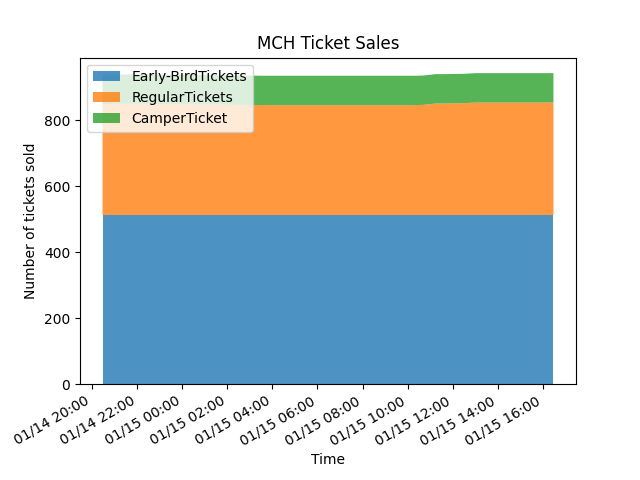
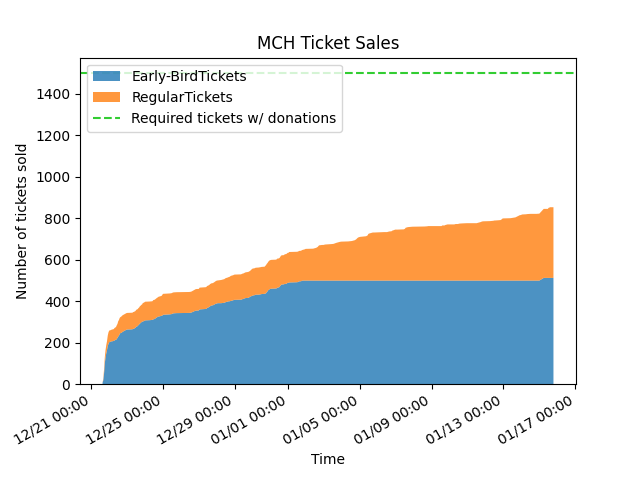
Added historic data, added 1500 ticket target

diff --git a/main.py b/main.py
@@ -30,16 +30,17 @@ def get_updated_counters(tickets):
 
 def plot_counters(data):
     timestamps = [datetime.fromtimestamp(stamp) for stamp in data["utc_epoch_time"].to_list()]
-    list_data = {key: data[key].to_list() for key in data.keys() if key != "utc_epoch_time"}
+    list_data = {key: data[key].to_list() for key in data.keys() if key not in ["utc_epoch_time", "CamperTicket"]}
 
     fig, ax = plt.subplots()
     ax.stackplot(timestamps, list_data.values(),
                  labels=list_data.keys(), alpha=0.8)
-    ax.legend(loc='upper left')
-    ax.set_title('MCH Ticket Sales')
-    ax.set_xlabel('Time')
-    ax.set_ylabel('Number of tickets sold')
-    ax.xaxis.set_major_formatter(mdates.DateFormatter('%m/%d %H:%M'))
+    ax.axhline(y=1500, color="limegreen", linestyle="--", label="Required tickets w/ donations")
+    ax.legend(loc="upper left")
+    ax.set_title("MCH Ticket Sales")
+    ax.set_xlabel("Time")
+    ax.set_ylabel("Number of tickets sold")
+    ax.xaxis.set_major_formatter(mdates.DateFormatter("%m/%d %H:%M"))
 
     plt.gcf().autofmt_xdate()
     plt.savefig("mch2022tickets.png")
@@ -60,7 +61,7 @@ async def main(loop):
             await client.subscribe("mch2022/ticketshop/#")
             asyncio.create_task(process_tickets(tickets))
             async for message in messages:
-                name_tokens = message.topic.split('/')
+                name_tokens = message.topic.split("/")
                 if len(name_tokens) < 3:
                     print(f"Invalid ticket name '{message.topic}', skipping")
                     continue
